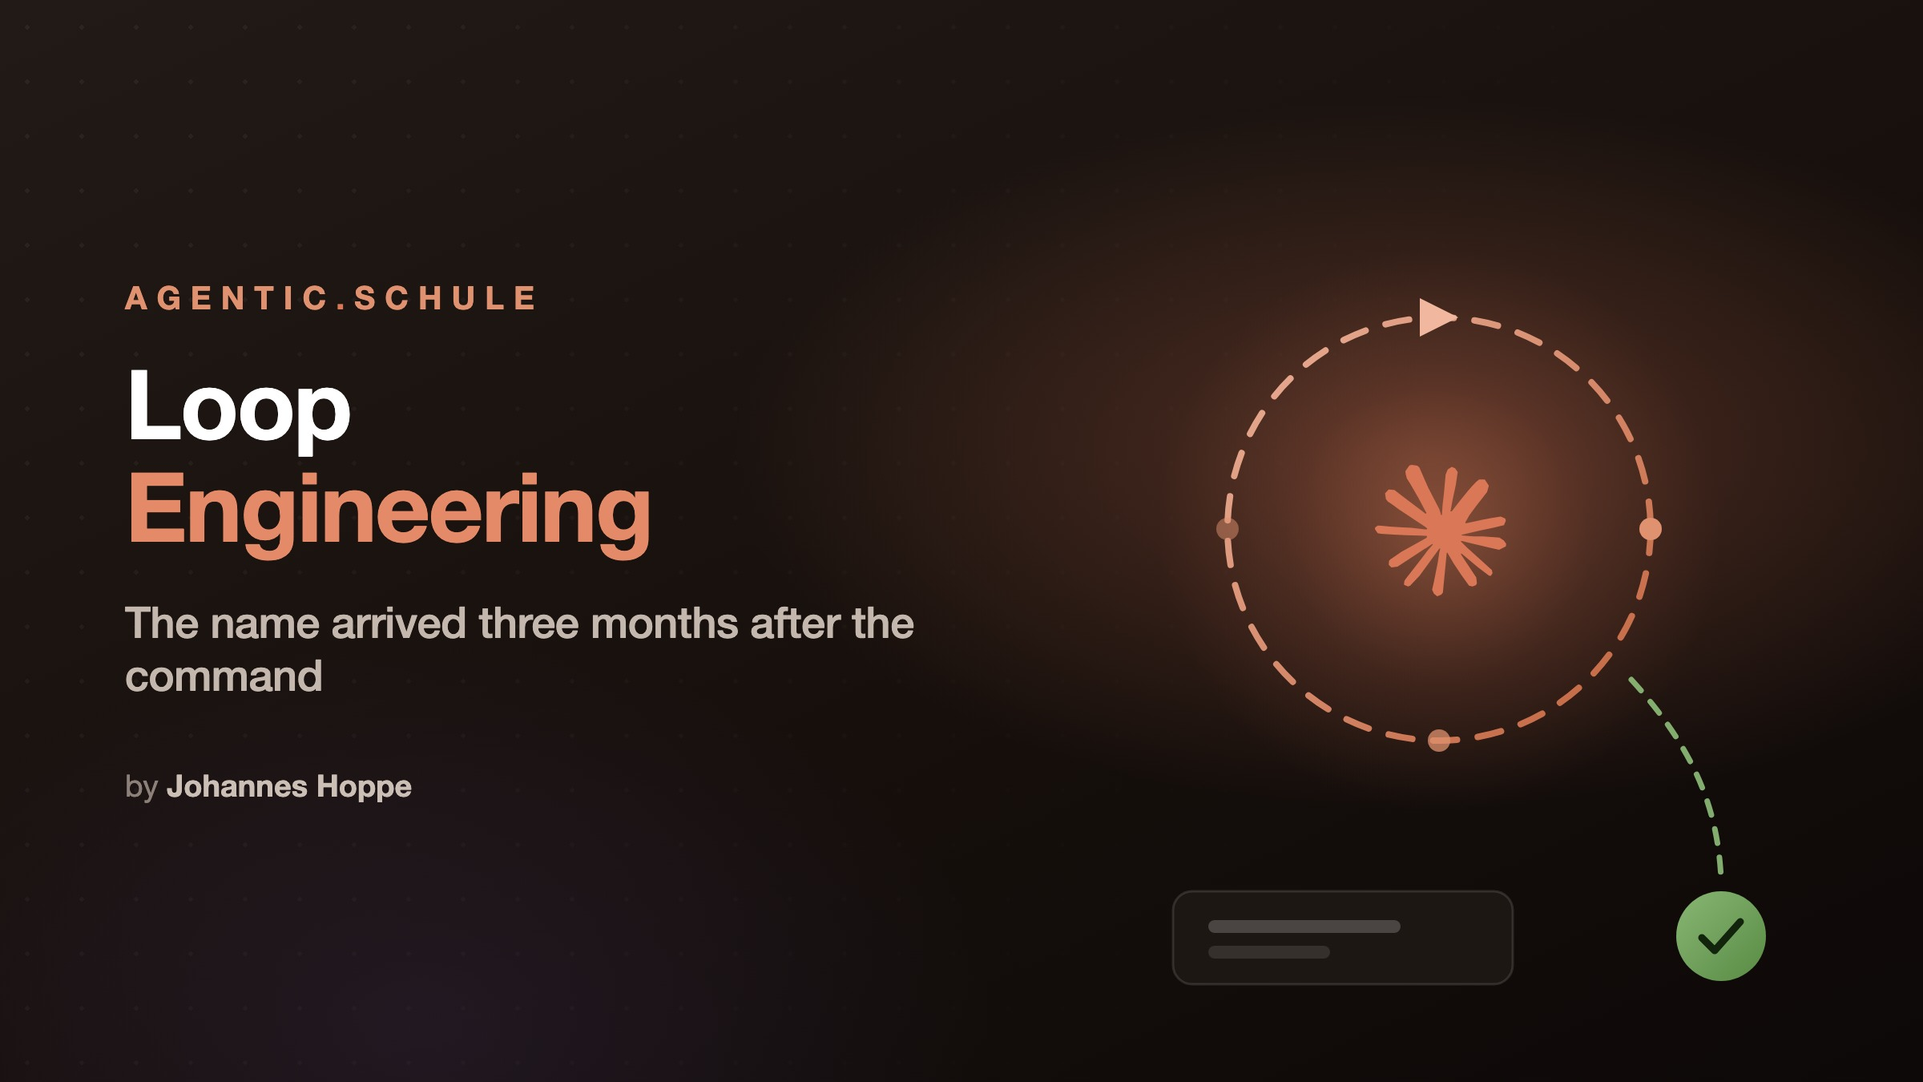
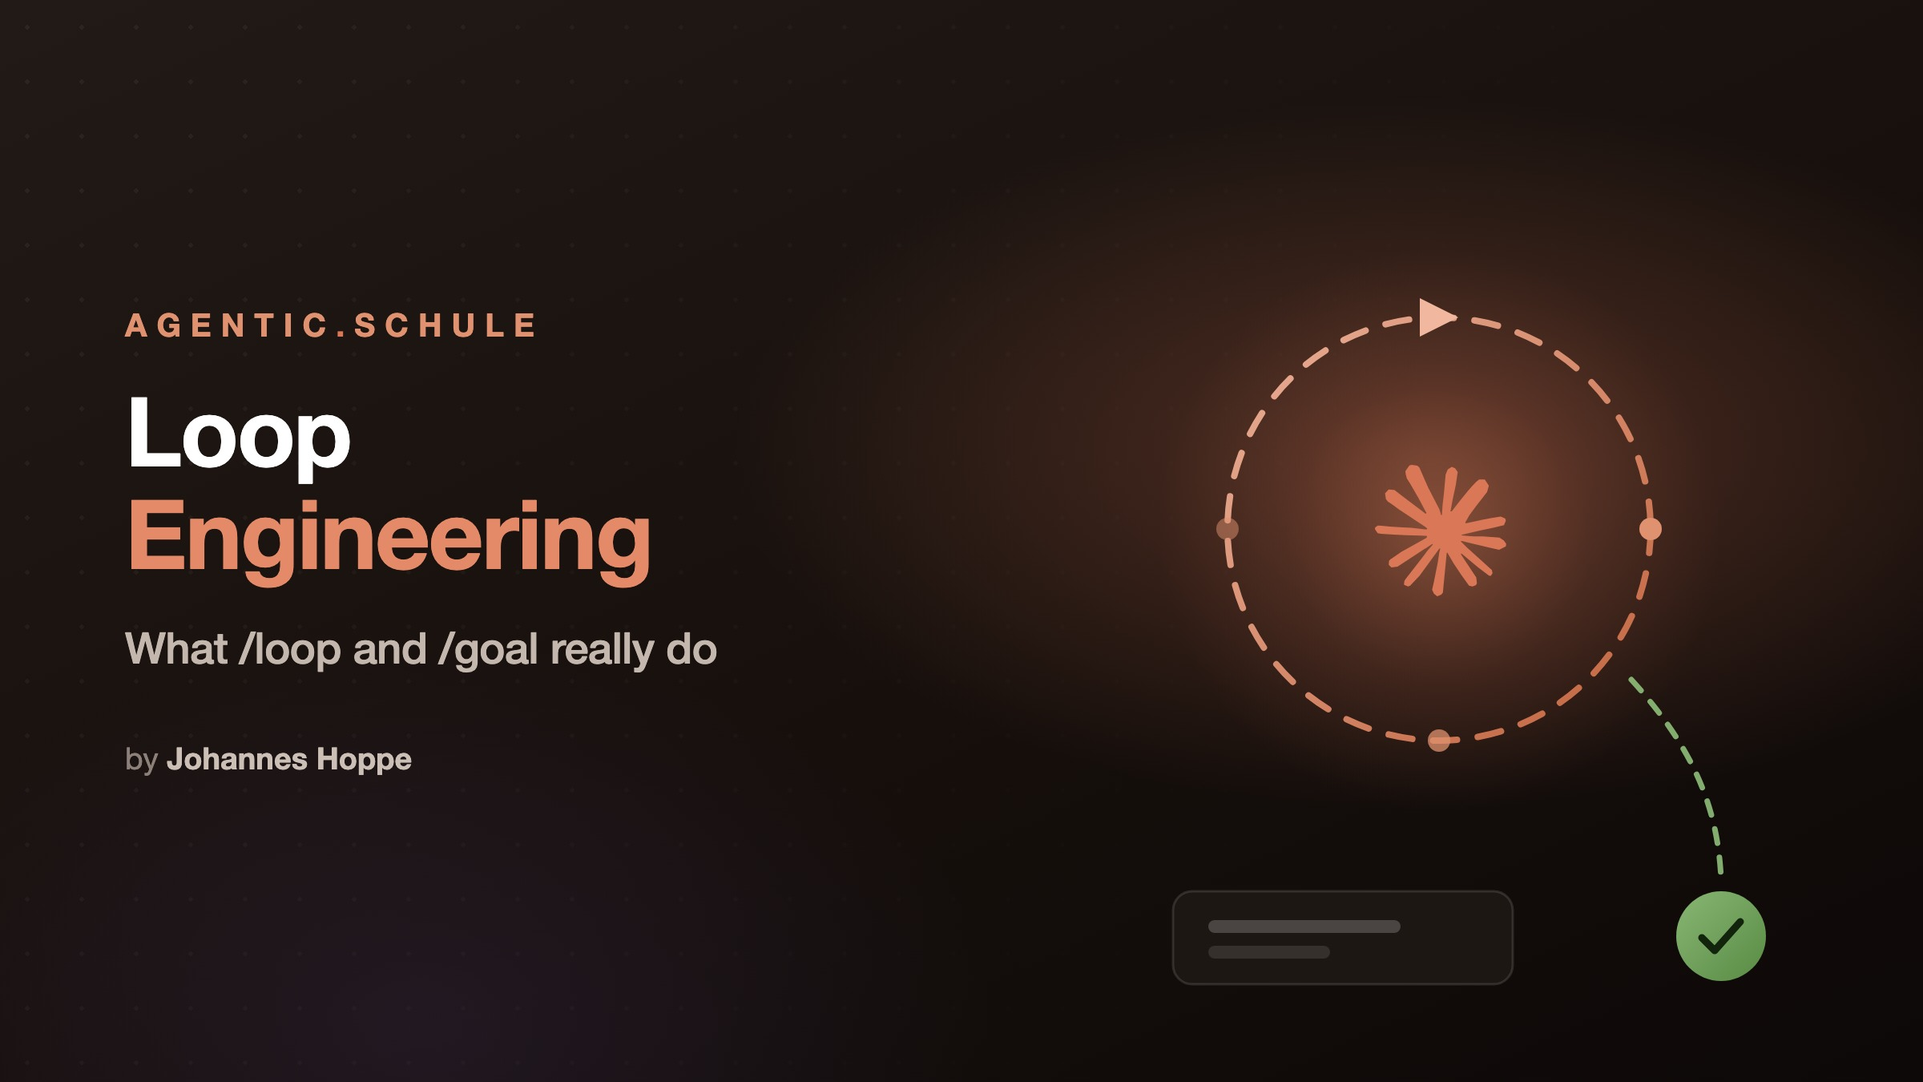
Richtungswechsel: Zeitstrahl raus. Der Artikel erklaert jetzt die Sache statt die Begriffsgeschichte. Kapitel 'Der Befehl war vor dem Namen da' geloescht, Einstieg und Definition zusammengefuehrt, neuer Titel und Header-Untertitel (DE+EN)

Changed region(s): [[0.0625, 0.3422, 0.4688, 0.6533], [0.0625, 0.2489, 0.2812, 0.3111], [0.0625, 0.6844, 0.2188, 0.7467]]

diff --git a/blog/2026-07-loop-engineering-EN/header.src.html b/blog/2026-07-loop-engineering-EN/header.src.html
@@ -39,7 +39,7 @@
     <div class="left">
       <div class="kicker">agentic<span class="dot">.</span>schule</div>
       <h1>Loop<br><span class="accent">Engineering</span></h1>
-      <div class="sub">The name arrived three months after the command</div>
+      <div class="sub">What /loop and /goal really do</div>
       <div class="by">by <b>Johannes Hoppe</b></div>
     </div>
   </div>

diff --git a/blog/2026-07-loop-engineering-DE/header.src.html b/blog/2026-07-loop-engineering-DE/header.src.html
@@ -39,7 +39,7 @@
     <div class="left">
       <div class="kicker">agentic<span class="dot">.</span>schule</div>
       <h1>Loop<br><span class="accent">Engineering</span></h1>
-      <div class="sub">Der Name kam drei Monate nach dem Befehl</div>
+      <div class="sub">Was /loop und /goal wirklich tun</div>
       <div class="by">von <b>Johannes Hoppe</b></div>
     </div>
   </div>

diff --git a/blog/2026-07-loop-engineering-DE/README.md b/blog/2026-07-loop-engineering-DE/README.md
@@ -1,5 +1,5 @@
 ---
-title: 'Loop Engineering: Der Name kam drei Monate nach dem Befehl'
+title: 'Loop Engineering: Wenn der Agent sich selbst weiterschickt'
 author: Johannes Hoppe
 mail: johannes.hoppe@haushoppe-its.de
 bio: '<a href="https://agentic.schule"><img src="/img/logo-agentic-schule.png" alt="agentic.schule Logo" style="float: right; margin-left: 30px; margin-top: -10px; margin-right: 30px; max-width: 220px;"></a>Johannes Hoppe ist Trainer und Berater für moderne Web-Entwicklung. In den Workshops von <a href="https://angular.schule" style="text-decoration: underline;"><b>angular.schule</b></a> und <a href="https://agentic.schule" style="text-decoration: underline;"><b>agentic.schule</b></a> geht es praxisnah um Angular – und zunehmend um agentische Entwicklung mit KI-Agenten wie Claude Code.'
@@ -18,57 +18,33 @@ language: de
 header: header.jpg
 ---
 
-Im Juni 2026 bekam eine Arbeitsweise einen Namen: Loop Engineering. Wer bis dahin seinem Agenten fünfzehnmal „mach weiter" getippt hatte, schrieb plötzlich Schleifen. Innerhalb weniger Wochen gab es Anleitungen, Kurse und Diagramme dazu.
+Loop Engineering heißt, dass du deinem Agenten nicht mehr fünfzehnmal „mach weiter" tippst. Du schreibst einmal auf, was passieren soll und wann Schluss ist, und eine Schleife erledigt den Rest.
 
-**Der Befehl, um den es geht, war zu diesem Zeitpunkt schon drei Monate alt. Dieser Artikel zeigt, was `/loop` wirklich tut, wie es sich von `/goal` unterscheidet, was die Pausen dazwischen kosten, wann sich das Ganze überhaupt lohnt und welche anderen Werkzeuge inzwischen Schleifen drehen.**
+**In Claude Code steckt das hinter zwei Befehlen, `/loop` und `/goal`, und die beiden arbeiten grundverschieden. Dieser Artikel zeigt, was sie tatsächlich tun, was die Pausen dazwischen kosten, wann sich eine Schleife überhaupt lohnt und welche anderen Werkzeuge mitziehen.**
 
 ## Inhalt
 
 [[toc]]
 
-## Der Satz, mit dem alles anfing
-
-Auf Fortunes Konferenz Brainstorm Tech saß Boris Cherny auf der Bühne, Erfinder und Chef von Claude Code bei Anthropic. Fortune zitiert ihn am [11. Juni 2026](https://fortune.com/2026/06/11/anthropic-claude-boris-cherny-doesnt-write-code-by-hand-anymore/) so:
-
-> If you look at most Claude Code sessions, it's actually another Claude that does the prompting.
-
-Dazu sagte er, er habe seit etwa acht Monaten keine Zeile Code mehr von Hand geschrieben, und er verwalte an manchen Morgen einige hundert Agenten.
-
-In der weiteren Verbreitung wurde daraus ein zugespitzter Satz, der bis heute überall kursiert: „I don't prompt Claude anymore." Ich habe für diese Fassung keine Primärquelle gefunden, nur Zitate über Zitate. Und selbst wenn sie so gefallen ist, sollte man sie nicht wörtlich nehmen. Hier bewirbt der Chef eines Produkts sein eigenes Produkt, auf einer Bühne, vor Publikum. Wer selbst Schleifen laufen lässt, weiß, dass man sehr wohl eingreift, nachjustiert und abbricht. Die Richtung stimmt trotzdem, und das reicht als Anlass.
-
 ## Was Loop Engineering bedeutet
 
-Die knappste Definition stammt von Addy Osmani, der den Begriff Anfang Juni [in einem Artikel ausbuchstabiert hat](https://addyosmani.com/blog/loop-engineering/):
+Die knappste Definition stammt von Addy Osmani, der den Begriff [in einem Artikel ausbuchstabiert hat](https://addyosmani.com/blog/loop-engineering/):
 
 > Loop engineering is replacing yourself as the person who prompts the agent. You design the system that does it instead.
 
 Mehr ist es nicht. Du hörst auf, der Taktgeber zu sein. Statt nach jedem Zwischenstand „weiter" zu tippen, schreibst du einmal auf, was passieren soll und wann Schluss ist.
+
+Wie weit das gehen kann, beschreibt Boris Cherny, Erfinder und Chef von Claude Code bei Anthropic. Fortune zitiert ihn [am 11. Juni 2026](https://fortune.com/2026/06/11/anthropic-claude-boris-cherny-doesnt-write-code-by-hand-anymore/) von der Bühne der Konferenz Brainstorm Tech:
+
+> If you look at most Claude Code sessions, it's actually another Claude that does the prompting.
+
+In der weiteren Verbreitung wurde daraus ein zugespitzter Satz, der bis heute kursiert: „I don't prompt Claude anymore." Für diese Fassung habe ich keine Primärquelle gefunden, und wörtlich nehmen sollte man sie ohnehin nicht. Hier bewirbt der Chef eines Produkts sein eigenes Produkt, auf einer Bühne, vor Publikum. Wer selbst Schleifen laufen lässt, weiß, dass man sehr wohl eingreift, nachjustiert und abbricht.
 
 Die deutschsprachige codecentric hat den Begriff [in eine brauchbare Schichtung eingeordnet](https://www.codecentric.de/en/knowledge-hub/blog/loop-harness-context-engineering-explained). Context Engineering sorgt dafür, dass im einzelnen Prompt die richtigen Informationen stehen. Harness Engineering baut das Geländer drumherum, also Werkzeuge, Skills, Hooks und Sandboxes. Loop Engineering ist die Schicht darüber:
 
 > the system that repeatedly triggers an AI agent, spawns helper agents, verifies results, and feeds itself, without a human prompting turn by turn
 
 Wichtig ist der Zusatz aus demselben Artikel: Jede Schicht erbt die Schwächen der darunter. Eine Schleife um einen Agenten, der seinen Kontext nicht im Griff hat, dreht nur schneller im Kreis.
-
-## Der Befehl war vor dem Namen da
-
-Jetzt der Teil, der mich beim Nachschlagen überrascht hat. Anthropics [Changelog](https://code.claude.com/docs/en/changelog) führt für Version 2.1.71 vom **7. März 2026** diesen Eintrag:
-
-> Added `/loop` command to run a prompt or slash command on a recurring interval (e.g. `/loop 5m check the deploy`)
-
-Das ist drei Monate vor dem Kamingespräch und vor Osmanis Artikel. Und es blieb nicht bei der ersten Fassung. Im selben Changelog stehen für die Wochen danach:
-
-| Version | Datum | Was dazukam |
-| --- | --- | --- |
-| 2.1.73 | 11.03.2026 | `/loop` auch auf Bedrock, Vertex und Foundry verfügbar |
-| 2.1.85 | 26.03.2026 | Zeitstempel im Transkript, wenn eine Schleife feuert |
-| 2.1.105 | 13.04.2026 | `/proactive` wird zum Alias für `/loop` |
-| 2.1.113 | 17.04.2026 | Esc bricht einen wartenden Durchlauf ab |
-| 2.1.140 | 12.05.2026 | keine überflüssigen Aufwachvorgänge mehr beim Pollen |
-
-Dazwischen liegt die Selbsttaktung, die Anthropic in der Wochenübersicht für den [6. bis 10. April](https://code.claude.com/docs/en/whats-new/2026-w15) ankündigte. Der Befehl war also längst durchiteriert, als die Timeline ihn entdeckte.
-
-Das ist kein Vorwurf an irgendwen. Es ist nur eine nützliche Beobachtung über die Reihenfolge: Erst baut jemand eine Funktion, dann benutzen Leute sie, und irgendwann bekommt die Praxis einen Namen. Wer neu dazukommt, erlebt die Reihenfolge umgekehrt und hält den Namen für die Neuigkeit.
 
 ## Was `/loop` tatsächlich tut
 
@@ -82,7 +58,7 @@ Die [Dokumentation](https://code.claude.com/docs/en/scheduled-tasks) beschreibt 
 
 Im selbstgetakteten Modus entscheidet Claude nach jedem Durchlauf selbst, wie lange er wartet. Die Doku beschreibt das so: kurze Abstände, solange ein Build läuft oder ein Pull Request in Bewegung ist, längere, wenn nichts ansteht. Solange tatsächlich etwas passiert, bleiben die Abstände kurz. Der gewählte Abstand und die Begründung dafür werden am Ende jedes Durchlaufs ausgegeben.
 
-Ein bloßes `/loop` ohne alles startet einen eingebauten Wartungs-Prompt. Der arbeitet in fester Reihenfolge: erst unerledigte Arbeit aus dem Gespräch fortsetzen, dann den Pull Request des aktuellen Branch pflegen, also Review-Kommentare, rote CI und Merge-Konflikte, und wenn nichts davon ansteht, Aufräumdurchgänge wie Bug-Jagd oder Vereinfachung. Neue Initiativen startet er nicht. Irreversible Aktionen wie Pushen oder Löschen führt er nur aus, wenn sie etwas fortsetzen, das im Transkript schon genehmigt wurde.
+`/proactive` ist übrigens ein Alias und tut dasselbe. Ein bloßes `/loop` ohne alles startet einen eingebauten Wartungs-Prompt. Der arbeitet in fester Reihenfolge: erst unerledigte Arbeit aus dem Gespräch fortsetzen, dann den Pull Request des aktuellen Branch pflegen, also Review-Kommentare, rote CI und Merge-Konflikte, und wenn nichts davon ansteht, Aufräumdurchgänge wie Bug-Jagd oder Vereinfachung. Neue Initiativen startet er nicht. Irreversible Aktionen wie Pushen oder Löschen führt er nur aus, wenn sie etwas fortsetzen, das im Transkript schon genehmigt wurde.
 
 Diesen Standard kannst du ersetzen. Eine Datei `.claude/loop.md` im Projekt oder `~/.claude/loop.md` für dich persönlich tritt an seine Stelle. Das ist einfaches Markdown ohne vorgeschriebene Struktur, geschrieben so, als würdest du den Prompt direkt eintippen. Änderungen daran greifen beim nächsten Durchlauf, du kannst also nachschärfen, während die Schleife läuft.
 
@@ -249,7 +225,7 @@ Das ist dieselbe Idee mit einer anderen Bedienoberfläche. Und es zeigt, wohin d
 
 ## Fazit
 
-Loop Engineering ist kein neues Handwerk. Es ist ein Name für etwas, das in den Werkzeugen schon eingebaut war, und der Name ist nützlich, weil er eine Frage stellt, die man vorher selten laut gestellt hat: Wer entscheidet eigentlich, wann Schluss ist?
+Im Kern läuft Loop Engineering auf eine einzige Frage hinaus: Wer entscheidet, wann Schluss ist? Solange du das bist, tippst du „weiter". Sobald du es aufschreibst, hast du eine Schleife.
 
 Sechs Dinge nehme ich mit:
 
@@ -260,7 +236,7 @@ Sechs Dinge nehme ich mit:
 - **Pausen sind im Abo gratis und per API teuer.** Ein Cache, der eine Stunde hält, gegen einen, der nach fünf Minuten kalt ist.
 - **Selbstständiges Abbrechen ist Ermessen, keine Zusage.** Verlasse dich nicht darauf, dass der Agent bei einem Fund von allein innehält.
 
-Und wenn in ein paar Wochen der nächste Begriff durch die Timeline geht, lohnt vorher ein Blick ins Changelog. Ziemlich oft steht die Funktion da schon eine Weile drin.
+Und wenn du dich zwischen den beiden Befehlen nicht entscheiden magst, fang mit `/goal` an. Eine prüfbare Abbruchbedingung zwingt dich ohnehin dazu, das Problem vorher zu Ende zu denken.
 
 **Wie haltet ihr das?** Lasst ihr Schleifen laufen, und wenn ja, mit welcher Abbruchbedingung? Ich freue mich über jede Nachricht.
 

diff --git a/blog/2026-07-loop-engineering-EN/README.md b/blog/2026-07-loop-engineering-EN/README.md
@@ -1,5 +1,5 @@
 ---
-title: 'Loop Engineering: The Name Arrived Three Months After the Command'
+title: 'Loop Engineering: When the Agent Prompts Itself'
 author: Johannes Hoppe
 mail: johannes.hoppe@haushoppe-its.de
 bio: '<a href="https://agentic.schule"><img src="/img/logo-agentic-schule.png" alt="agentic.schule logo" style="float: right; margin-left: 30px; margin-top: -10px; margin-right: 30px; max-width: 220px;"></a>Johannes Hoppe is a trainer and consultant for modern web development. The workshops at <a href="https://angular.schule" style="text-decoration: underline;"><b>angular.schule</b></a> and <a href="https://agentic.schule" style="text-decoration: underline;"><b>agentic.schule</b></a> focus on Angular in practice – and increasingly on agentic development with AI agents like Claude Code.'
@@ -18,57 +18,33 @@ language: en
 header: header.jpg
 ---
 
-In June 2026 a way of working got a name: loop engineering. Anyone who had been typing "keep going" to their agent fifteen times a session was suddenly writing loops. Within weeks there were guides, courses and diagrams about it.
+Loop engineering means you stop typing "keep going" to your agent fifteen times a session. You write down once what should happen and when it is finished, and a loop takes care of the rest.
 
-**The command at the centre of all this was already three months old by then. This article shows what `/loop` actually does, how it differs from `/goal`, what the pauses in between cost you, when the whole thing is worth it at all, and which other tools now run loops of their own.**
+**In Claude Code this sits behind two commands, `/loop` and `/goal`, and the two work in fundamentally different ways. This article shows what they actually do, what the pauses in between cost you, when a loop is worth it at all, and which other tools are keeping up.**
 
 ## Contents
 
 [[toc]]
 
-## The sentence that started it
-
-At Fortune's Brainstorm Tech conference, Boris Cherny sat on stage, creator and head of Claude Code at Anthropic. Fortune quotes him on [11 June 2026](https://fortune.com/2026/06/11/anthropic-claude-boris-cherny-doesnt-write-code-by-hand-anymore/):
-
-> If you look at most Claude Code sessions, it's actually another Claude that does the prompting.
-
-He added that he had not written a line of code by hand in about eight months, and that on some mornings he manages a few hundred agents.
-
-As it spread, this turned into a sharper line that is still circulating: "I don't prompt Claude anymore." I could not find a primary source for that version, only quotes of quotes. And even if it was said exactly that way, it should not be taken literally. This is the head of a product promoting his own product, on a stage, in front of an audience. Anyone who actually runs loops knows that you very much do intervene, adjust and abort. The direction still holds, and that is enough as a starting point.
-
 ## What loop engineering means
 
-The tightest definition comes from Addy Osmani, who [spelled the term out in early June](https://addyosmani.com/blog/loop-engineering/):
+The tightest definition comes from Addy Osmani, who [spelled the term out in an article](https://addyosmani.com/blog/loop-engineering/):
 
 > Loop engineering is replacing yourself as the person who prompts the agent. You design the system that does it instead.
 
 That is all it is. You stop being the metronome. Instead of typing "keep going" after every intermediate result, you write down once what should happen and when it is finished.
+
+How far that can go is described by Boris Cherny, creator and head of Claude Code at Anthropic. Fortune quotes him [on 11 June 2026](https://fortune.com/2026/06/11/anthropic-claude-boris-cherny-doesnt-write-code-by-hand-anymore/) from the stage of the Brainstorm Tech conference:
+
+> If you look at most Claude Code sessions, it's actually another Claude that does the prompting.
+
+As it spread, this turned into a sharper line that is still circulating: "I don't prompt Claude anymore." I could not find a primary source for that version, and it should not be taken literally anyway. This is the head of a product promoting his own product, on a stage, in front of an audience. Anyone who actually runs loops knows that you very much do intervene, adjust and abort.
 
 The German consultancy codecentric has [placed the term in a useful layering](https://www.codecentric.de/en/knowledge-hub/blog/loop-harness-context-engineering-explained). Context engineering makes sure the right information is in the individual prompt. Harness engineering builds the railing around it: tools, skills, hooks and sandboxes. Loop engineering is the layer on top:
 
 > the system that repeatedly triggers an AI agent, spawns helper agents, verifies results, and feeds itself, without a human prompting turn by turn
 
 The important caveat comes from the same article: every layer inherits the weaknesses of the one below it. A loop around an agent that cannot keep its context straight just goes round in circles faster.
-
-## The command was there before the name
-
-Now the part that surprised me while looking things up. Anthropic's [changelog](https://code.claude.com/docs/en/changelog) has this entry for version 2.1.71, dated **7 March 2026**:
-
-> Added `/loop` command to run a prompt or slash command on a recurring interval (e.g. `/loop 5m check the deploy`)
-
-That is three months before the fireside chat and before Osmani's article. And it did not stop at the first version. The same changelog records the following in the weeks after:
-
-| Version | Date | What was added |
-| --- | --- | --- |
-| 2.1.73 | 11.03.2026 | `/loop` also available on Bedrock, Vertex and Foundry |
-| 2.1.85 | 26.03.2026 | timestamps in the transcript when a loop fires |
-| 2.1.105 | 13.04.2026 | `/proactive` becomes an alias for `/loop` |
-| 2.1.113 | 17.04.2026 | Esc cancels a pending iteration |
-| 2.1.140 | 12.05.2026 | no more redundant wakeups when polling |
-
-In between came self-pacing, which Anthropic announced in the weekly digest for [6 to 10 April](https://code.claude.com/docs/en/whats-new/2026-w15). So the command had long been through several rounds of polish by the time the timeline discovered it.
-
-This is not a reproach aimed at anyone. It is simply a useful observation about the order of things. Somebody builds a feature, people use it, and at some point the practice gets a name. Whoever arrives later experiences that order in reverse and mistakes the name for the news.
 
 ## What `/loop` actually does
 
@@ -82,7 +58,7 @@ The [documentation](https://code.claude.com/docs/en/scheduled-tasks) describes t
 
 In self-paced mode, Claude decides after each iteration how long to wait. The docs describe it like this: short waits while a build is finishing or a pull request is active, longer ones when nothing is pending. As long as something is actually happening the delays stay short. The chosen delay and the reason for it are printed at the end of each iteration.
 
-A bare `/loop` with nothing else starts a built-in maintenance prompt. It works in a fixed order: first continue unfinished work from the conversation, then tend to the current branch's pull request, meaning review comments, red CI and merge conflicts, and when none of that is pending, run cleanup passes such as bug hunts or simplification. It starts no new initiatives. Irreversible actions such as pushing or deleting only happen when they continue something the transcript already authorized.
+`/proactive` is an alias, by the way, and does the same thing. A bare `/loop` with nothing else starts a built-in maintenance prompt. It works in a fixed order: first continue unfinished work from the conversation, then tend to the current branch's pull request, meaning review comments, red CI and merge conflicts, and when none of that is pending, run cleanup passes such as bug hunts or simplification. It starts no new initiatives. Irreversible actions such as pushing or deleting only happen when they continue something the transcript already authorized.
 
 You can replace that default. A `.claude/loop.md` file in the project, or `~/.claude/loop.md` for you personally, takes its place. It is plain Markdown with no required structure, written as if you were typing the prompt directly. Edits take effect on the next iteration, so you can sharpen the instructions while the loop is running.
 
@@ -249,7 +225,7 @@ Same idea, different interface. And it shows where this is heading: the capabili
 
 ## Conclusion
 
-Loop engineering is not a new craft. It is a name for something already built into the tools, and the name is useful because it raises a question that was rarely asked out loud before: who actually decides when the work is finished?
+At its core, loop engineering comes down to a single question: who decides when the work is finished? As long as that is you, you keep typing "keep going". The moment you write it down, you have a loop.
 
 Six things I take away:
 
@@ -260,7 +236,7 @@ Six things I take away:
 - **Pauses are free on a subscription and expensive through the API.** A cache that holds for an hour against one that goes cold after five minutes.
 - **Breaking out on its own is judgement, not a promise.** Do not rely on the agent stopping by itself when it finds something.
 
-And when the next term goes round the timeline in a few weeks, it is worth a look at the changelog first. Fairly often the feature has been sitting in there for a while.
+And if you cannot decide between the two commands, start with `/goal`. A checkable completion condition forces you to think the problem through beforehand anyway.
 
 **How do you handle this?** Do you run loops, and if so with what completion condition? I am glad to hear from you.
 
